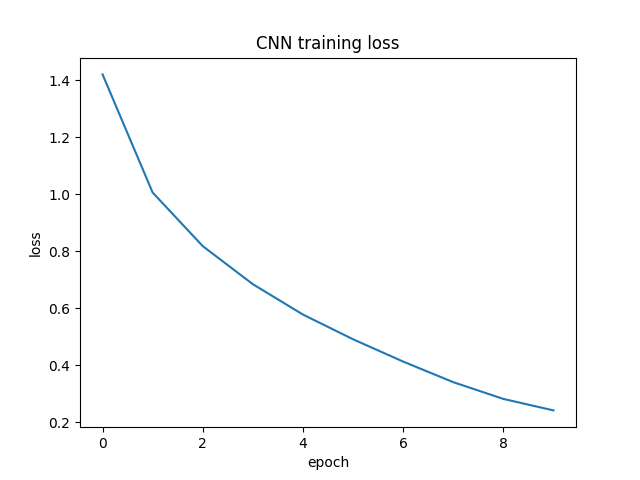
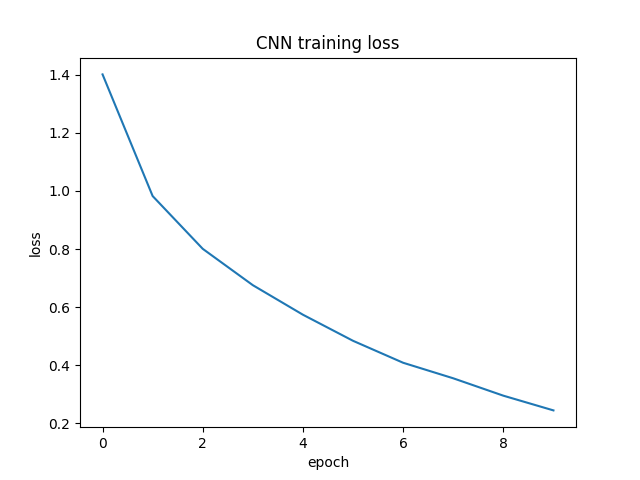
完成warmup和mixup初版

diff --git a/test_four.py b/test_four.py
@@ -12,7 +12,6 @@ from torch.utils.data import DataLoader
 #torchvision
 from torchvision import datasets
 from torchvision import transforms
-
 transform = transforms.Compose([
     transforms.ToTensor(),  # 把图片从PIL格式转成PyTorch张量
     transforms.Normalize((0.5, 0.5, 0.5), (0.5, 0.5, 0.5))  # 归一化
@@ -174,7 +173,7 @@ with torch.no_grad():
         _,predicted=torch.max(outputs,1)
         total +=labels.size(0)
         correct +=(predicted==labels).sum().item()
-print(f'\n准确率：{100*correct/total:.2f}%')
+print(f'\nCNN准确率：{100*correct/total:.2f}%')
 
 #损失曲线
 plt.plot(train_losses)
@@ -188,13 +187,65 @@ plt.show(block=True)
 #warmup
 from torch.optim.lr_scheduler import LinearLR,SequentialLR
 optimizer=optim.Adam(model.parameters(),lr=0.001)
-warmup=torch.optim.lr_scheduler.LinearLR(
+scheduler=LinearLR(
     optimizer,
-    start_factor=0.001,
+    start_factor=0.01,
     end_factor=1.0,
-    total_iters=5
+    total_iters=5,
+    last_epoch=-1
 )
+
+def mixup_data(x,y,alpha=1.0):
+    if alpha>0:
+        lam=np.random.beta(alpha,alpha)
+    else:
+        lam=1
+    batch_size=x.size(0)
+    index=torch.randperm(batch_size).to(x.device)
+    mixed_x=lam*x+(1-lam)*x[index]
+    y_a,y_b=y,y[index]
+    return mixed_x,y_a,y_b,lam
+#训练
+print("开始训练")
+
+train_losses=[]
 for epoch in range(10):
-    warmup.step()
+    model.train()
+    running_loss=0.0
     print(f"当前学习率：{optimizer.param_groups[0]['lr']}")
 
+    for images,labels in train_loader:
+        images,labels=images.to(device),labels.to(device)
+        images,labels_a,labels_b,lam=mixup_data(images,labels,alpha=1.0)
+        outputs=model(images)
+        loss=lam*criterion(outputs,labels_a)+(1-lam)*criterion(outputs,labels_b)
+        loss.backward()
+
+        optimizer.step()
+        print("optimizer")
+        scheduler.step()
+        print("scheduler")
+        optimizer.zero_grad()
+        running_loss += loss.item()
+
+avg_loss = running_loss / len(train_loader)
+train_losses.append(avg_loss)
+print(f'Epoch{epoch+1},Loss:{avg_loss:.4f}')
+
+#测试准确率
+model.eval()
+correct=0
+total=0
+with torch.no_grad():
+    for images,labels in test_loader:
+        images,labels=images.to(device),labels.to(device)
+        outputs=model(images)
+        _,predicted=torch.max(outputs,1)
+        total +=labels.size(0)
+        correct +=(predicted==labels).sum().item()
+
+accuracy=100*correct/total
+print(f"准确率:{accuracy:.2f}%")
+#记录结果
+with open("test4_result.txt","a")as f:
+    f.write(f"warmup(5)+mixup(alpha=1.0),准确率:{accuracy:.2f}%\n")

diff --git a/test4.py b/test4.py
@@ -12,7 +12,6 @@ from torch.utils.data import DataLoader
 #torchvision
 from torchvision import datasets
 from torchvision import transforms
-
 transform = transforms.Compose([
     transforms.ToTensor(),  # 把图片从PIL格式转成PyTorch张量
     transforms.Normalize((0.5, 0.5, 0.5), (0.5, 0.5, 0.5))  # 归一化
@@ -174,7 +173,7 @@ with torch.no_grad():
         _,predicted=torch.max(outputs,1)
         total +=labels.size(0)
         correct +=(predicted==labels).sum().item()
-print(f'\n准确率：{100*correct/total:.2f}%')
+print(f'\nCNN准确率：{100*correct/total:.2f}%')
 
 #损失曲线
 plt.plot(train_losses)
@@ -188,13 +187,65 @@ plt.show(block=True)
 #warmup
 from torch.optim.lr_scheduler import LinearLR,SequentialLR
 optimizer=optim.Adam(model.parameters(),lr=0.001)
-warmup=torch.optim.lr_scheduler.LinearLR(
+scheduler=LinearLR(
     optimizer,
-    start_factor=0.001,
+    start_factor=0.01,
     end_factor=1.0,
-    total_iters=5
+    total_iters=5,
+    last_epoch=-1
 )
+
+def mixup_data(x,y,alpha=1.0):
+    if alpha>0:
+        lam=np.random.beta(alpha,alpha)
+    else:
+        lam=1
+    batch_size=x.size(0)
+    index=torch.randperm(batch_size).to(x.device)
+    mixed_x=lam*x+(1-lam)*x[index]
+    y_a,y_b=y,y[index]
+    return mixed_x,y_a,y_b,lam
+#训练
+print("begin")
+
+train_losses=[]
 for epoch in range(10):
-    warmup.step()
+    model.train()
+    running_loss=0.0
     print(f"当前学习率：{optimizer.param_groups[0]['lr']}")
 
+    for images,labels in train_loader:
+        images,labels=images.to(device),labels.to(device)
+        images,labels_a,labels_b,lam=mixup_data(images,labels,alpha=1.0)
+        outputs=model(images)
+        loss=lam*criterion(outputs,labels_a)+(1-lam)*criterion(outputs,labels_b)
+        loss.backward()
+
+        optimizer.step()
+        print("optimizer")
+        scheduler.step()
+        print("scheduler")
+        optimizer.zero_grad()
+        running_loss += loss.item()
+
+avg_loss = running_loss / len(train_loader)
+train_losses.append(avg_loss)
+print(f'Epoch{epoch+1},Loss:{avg_loss:.4f}')
+
+#测试准确率
+model.eval()
+correct=0
+total=0
+with torch.no_grad():
+    for images,labels in test_loader:
+        images,labels=images.to(device),labels.to(device)
+        outputs=model(images)
+        _,predicted=torch.max(outputs,1)
+        total +=labels.size(0)
+        correct +=(predicted==labels).sum().item()
+
+accuracy=100*correct/total
+print(f"准确率:{accuracy:.2f}%")
+#记录结果
+with open("test4_result.txt","a")as f:
+    f.write(f"warmup(5)+mixup(alpha=1.0),准确率:{accuracy:.2f}%\n")
